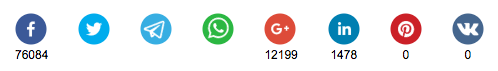
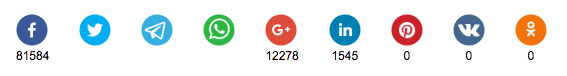
readme and example image update

diff --git a/README.md b/README.md
@@ -11,7 +11,7 @@
 
 * no external script loading, i.e. no dependencies on SDKs
 * opens a popup share-window
-* sharing buttons for Facebook, Twitter, Google+, LinkedIn, Pinterest, VK, Telegram and Whatsapp
+* sharing buttons for Facebook, Twitter, Google+, LinkedIn, Pinterest, VK, Telegram, Whatsapp and Odnoklassniki
 * share counts for Facebook, Google+, Linkedin, Pinterest and VK
 * share buttons with generated icons or custom icons of your choice
 
